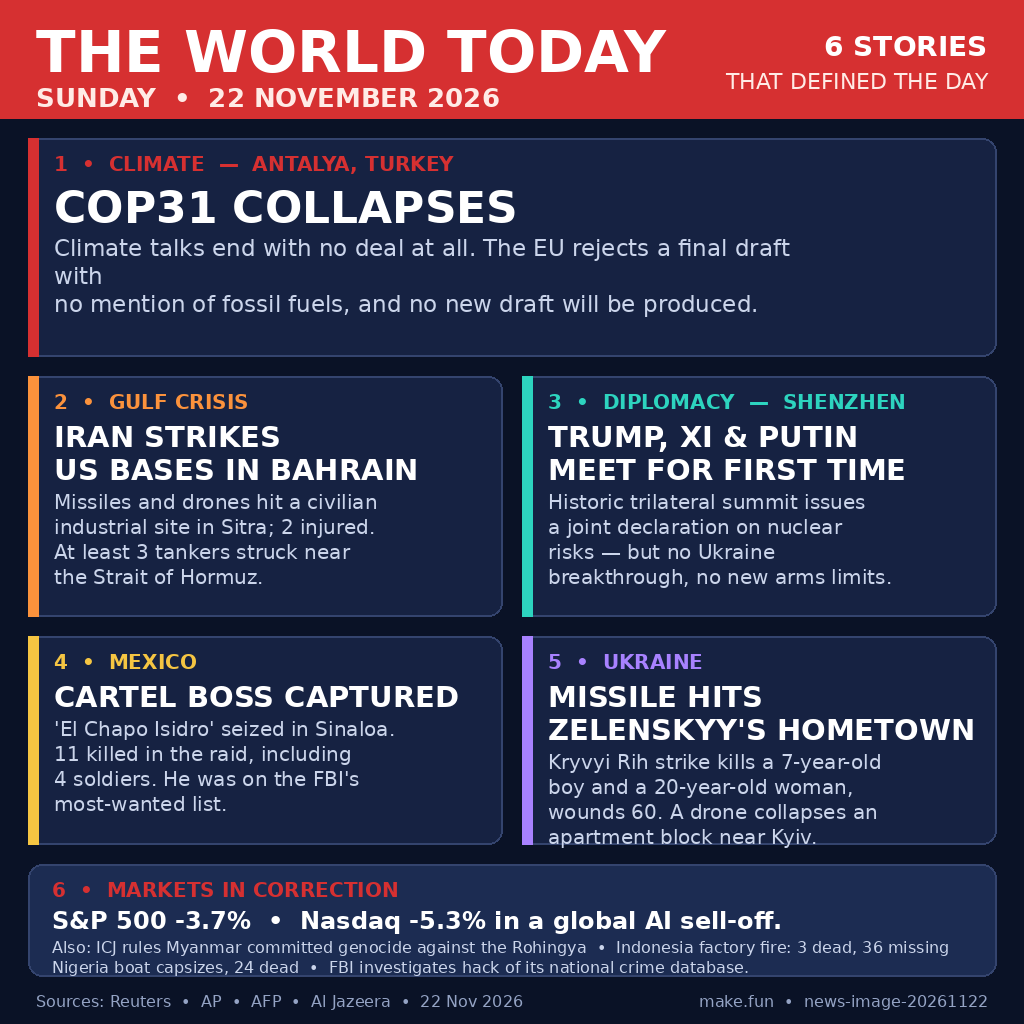
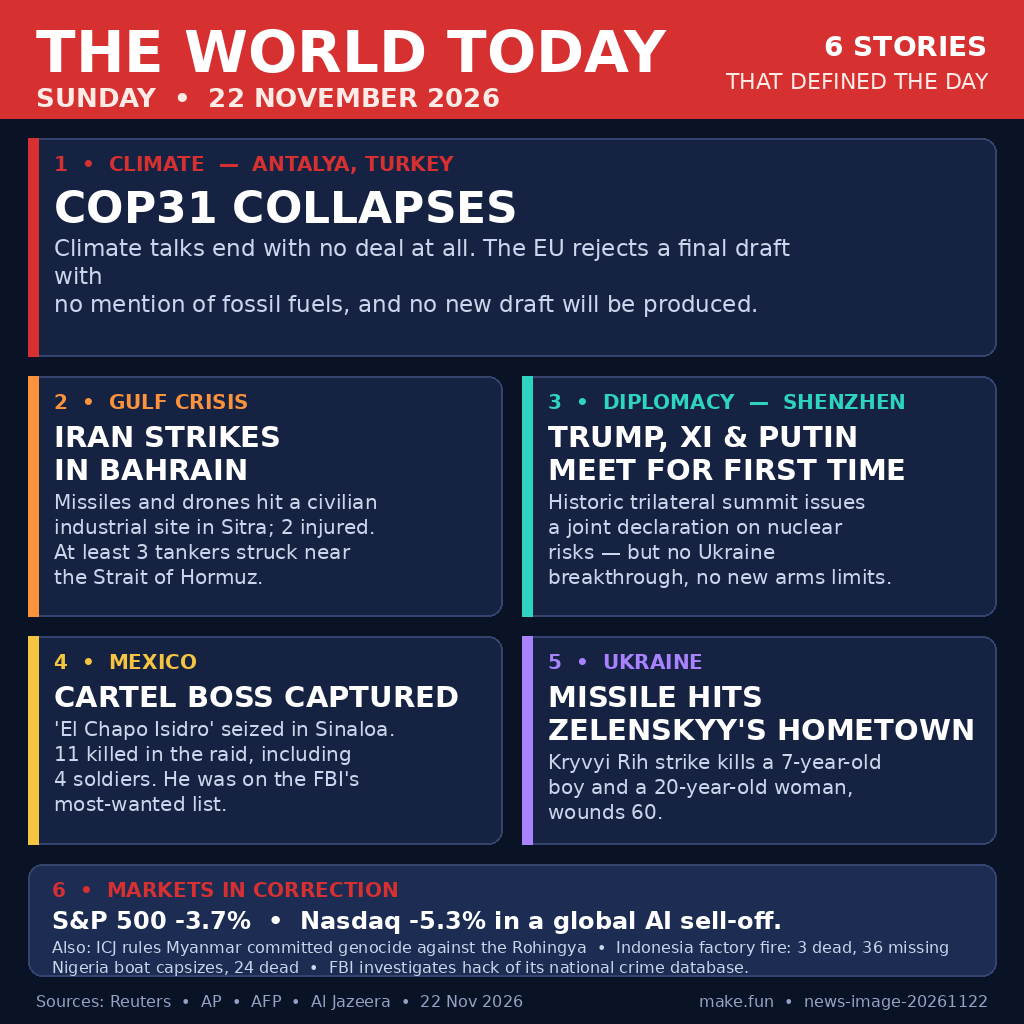
Improve entry: fix Ukraine panel overflow, soften Gulf headline

Changed region(s): [[0.5312, 0.7812, 0.8438, 0.8438], [0.0625, 0.4375, 0.4062, 0.4688]]

diff --git a/README.md b/README.md
@@ -4,7 +4,7 @@
 [![rank](https://make.fun/badge/news-image-20261122/rendsstwn/makefun-news-image-20261122/rank.svg)](https://make.fun/bounty/news-image-20261122/leaderboard?utm_source=github&utm_medium=readme&utm_campaign=news-image-20261122)
 [![reward](https://make.fun/badge/news-image-20261122/rendsstwn/makefun-news-image-20261122/reward.svg)](https://make.fun/bounty/news-image-20261122?utm_source=github&utm_medium=readme&utm_campaign=news-image-20261122)
 
-Sum up the world's news of Sunday 22 November 2026 in one image. The entry program writes a 1024x1024 PNG summarising the day: COP31 collapses in Antalya, Iran strikes US bases in Bahrain and tankers near the Strait of Hormuz, Trump, Xi and Putin meet in Shenzhen, cartel boss 'El Chapo Isidro' is captured in Mexico, a missile hits Kryvyi Rih in Ukraine, and markets fall into correction (S&P 500 -3.7%, Nasdaq -5.3%). Sources: Reuters, AP, AFP, Al Jazeera, 22 Nov 2026.
+Sum up the world's news of Sunday 22 November 2026 in one image. The entry program writes a 1024x1024 PNG summarising the day: COP31 collapses in Antalya, Iran strikes in Bahrain and tankers near the Strait of Hormuz, Trump, Xi and Putin meet in Shenzhen, cartel boss 'El Chapo Isidro' is captured in Mexico, a missile hits Kryvyi Rih in Ukraine, and markets fall into correction (S&P 500 -3.7%, Nasdaq -5.3%). Sources: Reuters, AP, AFP, Al Jazeera, 22 Nov 2026.
 
 ## Run it
 
